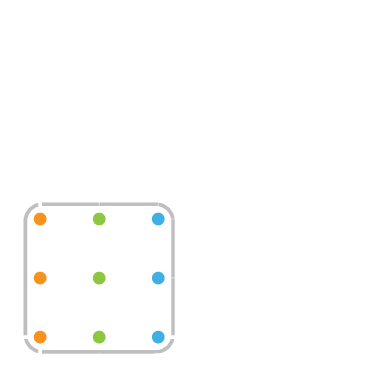
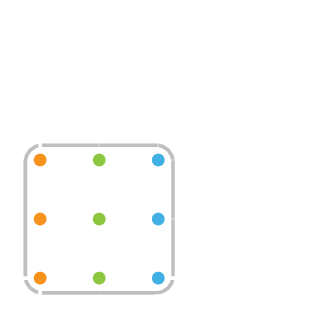
Fixing image

Changed region(s): [[0.0573, 0.4361, 0.5732, 0.9346], [0.2866, 0.6542, 0.3439, 0.7165], [0.2293, 0.7165, 0.2866, 0.7477]]

diff --git a/03 Begrensde herhaling/1 - Opstellen herhaling/15 Coordinaten vierkant weergeven/description/media/image.tex b/03 Begrensde herhaling/1 - Opstellen herhaling/15 Coordinaten vierkant weergeven/description/media/image.tex
@@ -14,21 +14,21 @@
 		
 		\draw[black!50, semitransparent, thick, rounded corners] (-0.125,-0.125) rectangle (1.125, 1.125);
 		% grid
-		\draw[main, very thin, xstep=0.5, ystep=0.5, semitransparent] (-0.1,-0.1) grid (2.1,2.1);
+		\draw[main, very thin, xstep=0.5, ystep=0.5, semitransparent] (-0.1,-0.1) grid (1.6,1.6);
 		
 		% y tick label
-		\foreach \y in {1, 2, 3, 4}{
+		\foreach \y in {1, 2, 3}{
 			\node[tl,left=1mm] at (0,0.5*\y) {$\y$};
 		}
 		% x tick label
-		\foreach \x in {1, 2, 3, 4}{
+		\foreach \x in {1, 2, 3}{
 			\node[tl,below=1mm] at (0.5*\x,0) {$\x$};
 		}
 		
 	
 		% axes
-		\draw[main, ->,thick] (-0.2,0) -- (2.2,0) node[right] {$x$};
-		\draw[main, ->,thick] (0,-0.2) -- (0, 2.2) node[above] {$y$};	
+		\draw[main, ->,thick] (-0.2,0) -- (1.7,0) node[right] {$x$};
+		\draw[main, ->,thick] (0,-0.2) -- (0, 1.7) node[above] {$y$};	
 		
 		\fill[BurntOrange] (0,0) circle (1.5pt);
 		\fill[BurntOrange] (0,0.5) circle (1.5pt);
